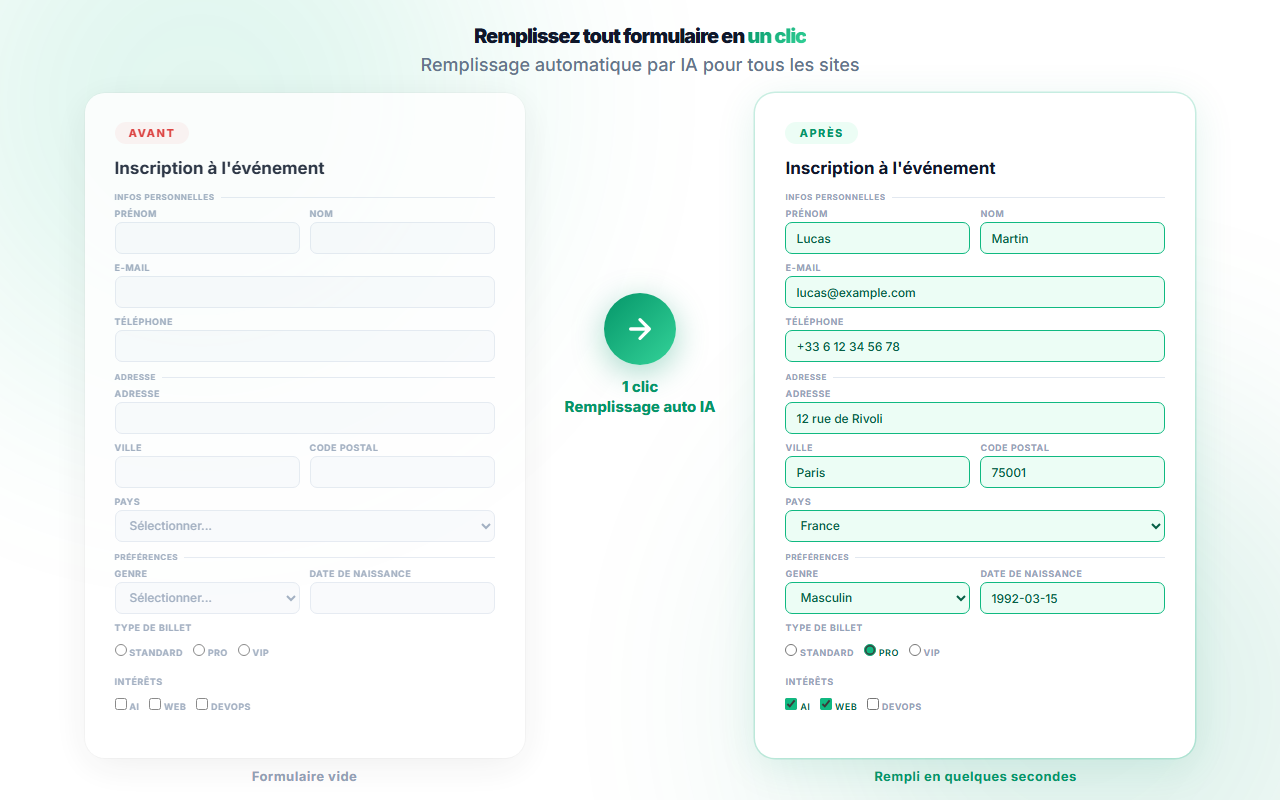
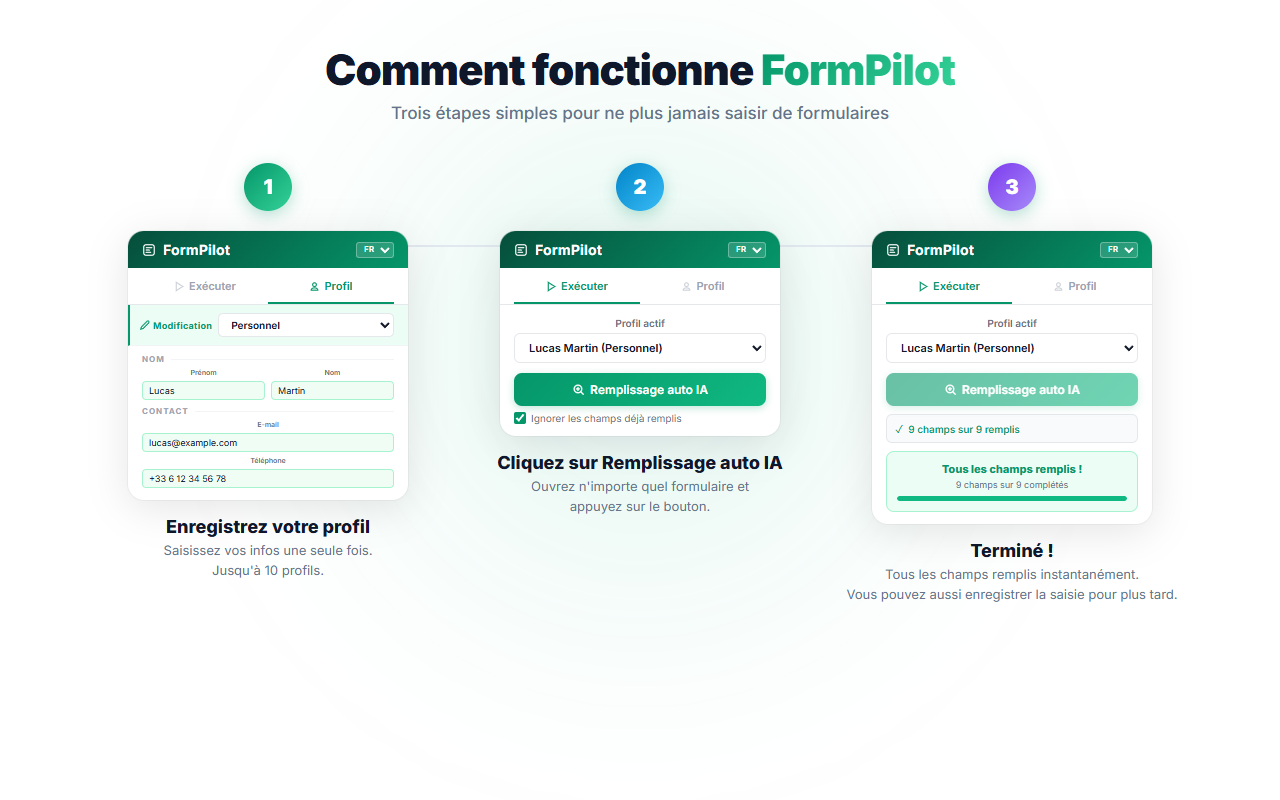
アンインストールアンケート改修＋FormPilotストア画像1・2入替
- uninstall.html (FormPilot/足あとメーカー): 拡張が渡す匿名診断クエリを
  hidden diagnostics に集約して送信、詳細欄を必須化
- FormPilot: lang クエリを language フィールドに反映
- FormPilot ストア画像: 1枚目=使い方3ステップ図、2枚目=Before/After に入替
  (en + 10言語の翻訳版を再生成)

diff --git a/formpilot/uninstall.html b/formpilot/uninstall.html
@@ -104,7 +104,8 @@
 
         <input type="hidden" name="kind" value="uninstall">
         <input type="hidden" name="product" value="FormPilot">
-        <input type="hidden" name="language" value="en">
+        <input type="hidden" name="language" value="en" id="f-language">
+        <input type="hidden" name="diagnostics" id="f-diagnostics">
         <input type="checkbox" name="botcheck" class="hp" tabindex="-1" autocomplete="off">
 
         <div class="field">
@@ -145,10 +146,10 @@
 
         <div class="field">
           <label class="field-label" for="f-details">
-            <span>Details or feedback (optional)</span>
-            <span class="tag tag-opt">Optional</span>
+            <span>Details or feedback</span>
+            <span class="tag tag-req">Required</span>
           </label>
-          <textarea id="f-details" name="content" placeholder="Anything you would like us to know."></textarea>
+          <textarea id="f-details" name="content" placeholder="Please tell us what happened — which site, what you expected, and what went wrong."></textarea>
         </div>
 
         <div class="field">
@@ -180,7 +181,21 @@
     (function () {
       var ENDPOINT = 'https://contact-api.warload57.workers.dev/';
       var MAX_FILE_BYTES = 25 * 1024 * 1024;
-      var MSG = {"sending":"Sending...","submit":"Send","error":"Sending failed. Please wait a moment and try again.","reasonsRequired":"Please select at least one reason."};
+      var MSG = {"sending":"Sending...","submit":"Send","error":"Sending failed. Please wait a moment and try again.","reasonsRequired":"Please select at least one reason.","detailsRequired":"Please enter some details — it really helps us fix the problem."};
+
+      // Anonymous diagnostics passed by the extension via setUninstallURL
+      // (v=version, lang=UI language, days=days installed, fills=total fills, err=last error)
+      (function () {
+        var params = new URLSearchParams(location.search);
+        var parts = [];
+        ['v', 'days', 'fills', 'err'].forEach(function (k) {
+          var val = (params.get(k) || '').slice(0, 150);
+          if (val) parts.push(k + '=' + val);
+        });
+        document.getElementById('f-diagnostics').value = parts.join(', ');
+        var lang = (params.get('lang') || '').slice(0, 10);
+        if (lang) document.getElementById('f-language').value = lang;
+      })();
 
       var form = document.getElementById('survey-form');
       var success = document.getElementById('success');
@@ -229,6 +244,13 @@
 
         if (!form.querySelectorAll('input[name="reasons"]:checked').length) {
           showError(MSG.reasonsRequired);
+          return;
+        }
+
+        var details = document.getElementById('f-details');
+        if (!details.value.trim()) {
+          showError(MSG.detailsRequired);
+          details.focus();
           return;
         }
 

diff --git a/ashiato-maker/uninstall.html b/ashiato-maker/uninstall.html
@@ -105,6 +105,7 @@
         <input type="hidden" name="kind" value="uninstall">
         <input type="hidden" name="product" value="Ashiato Maker">
         <input type="hidden" name="language" value="ja">
+        <input type="hidden" name="diagnostics" id="f-diagnostics">
         <input type="checkbox" name="botcheck" class="hp" tabindex="-1" autocomplete="off">
 
         <div class="field">
@@ -145,10 +146,10 @@
 
         <div class="field">
           <label class="field-label" for="f-details">
-            <span>詳細・ご意見（任意）</span>
-            <span class="tag tag-opt">任意</span>
+            <span>詳細・ご意見</span>
+            <span class="tag tag-req">必須</span>
           </label>
-          <textarea id="f-details" name="content" placeholder="お気づきの点がありましたらご記入ください。"></textarea>
+          <textarea id="f-details" name="content" placeholder="どのアプリで・何をしたときに・どうなったかをご記入ください。改善の大きな助けになります。"></textarea>
         </div>
 
         <div class="field">
@@ -180,7 +181,19 @@
     (function () {
       var ENDPOINT = 'https://contact-api.warload57.workers.dev/';
       var MAX_FILE_BYTES = 25 * 1024 * 1024;
-      var MSG = {"sending":"送信中...","submit":"送信する","error":"送信に失敗しました。時間をおいて、もう一度お試しください。","reasonsRequired":"理由を1つ以上選択してください。"};
+      var MSG = {"sending":"送信中...","submit":"送信する","error":"送信に失敗しました。時間をおいて、もう一度お試しください。","reasonsRequired":"理由を1つ以上選択してください。","detailsRequired":"詳細をご記入ください。問題の調査に必要です。"};
+
+      // 拡張機能が setUninstallURL で付与する匿名診断情報
+      // (v=バージョン, days=利用日数, visits=累計訪問数, runs=実行回数)
+      (function () {
+        var params = new URLSearchParams(location.search);
+        var parts = [];
+        ['v', 'days', 'visits', 'runs'].forEach(function (k) {
+          var val = (params.get(k) || '').slice(0, 150);
+          if (val) parts.push(k + '=' + val);
+        });
+        document.getElementById('f-diagnostics').value = parts.join(', ');
+      })();
 
       var form = document.getElementById('survey-form');
       var success = document.getElementById('success');
@@ -229,6 +242,13 @@
 
         if (!form.querySelectorAll('input[name="reasons"]:checked').length) {
           showError(MSG.reasonsRequired);
+          return;
+        }
+
+        var details = document.getElementById('f-details');
+        if (!details.value.trim()) {
+          showError(MSG.detailsRequired);
+          details.focus();
           return;
         }
 
